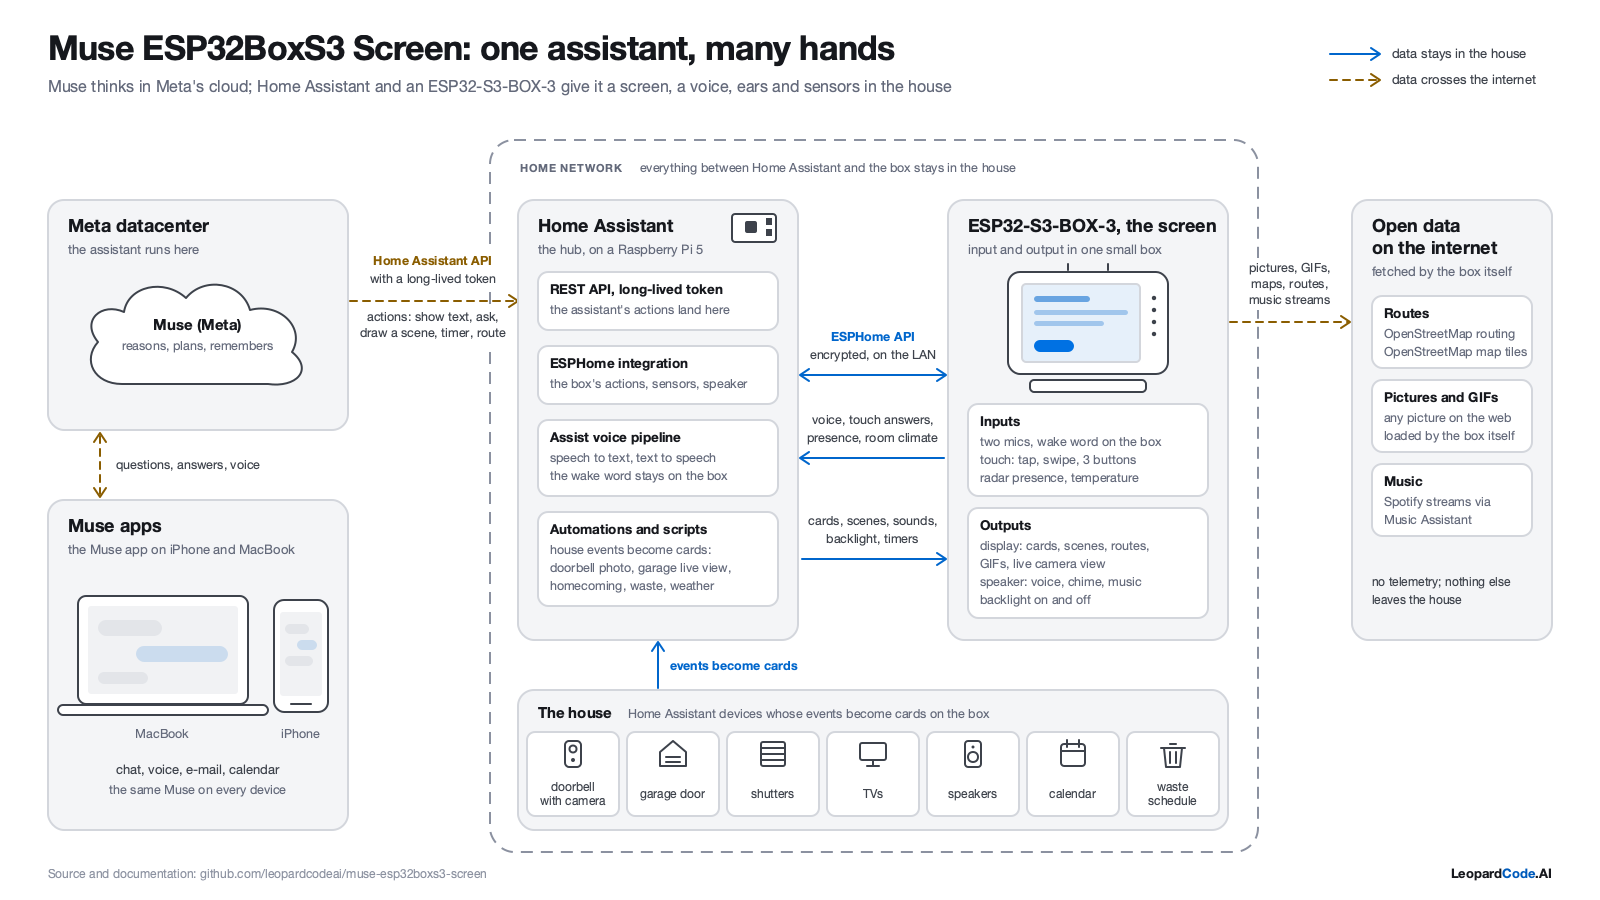
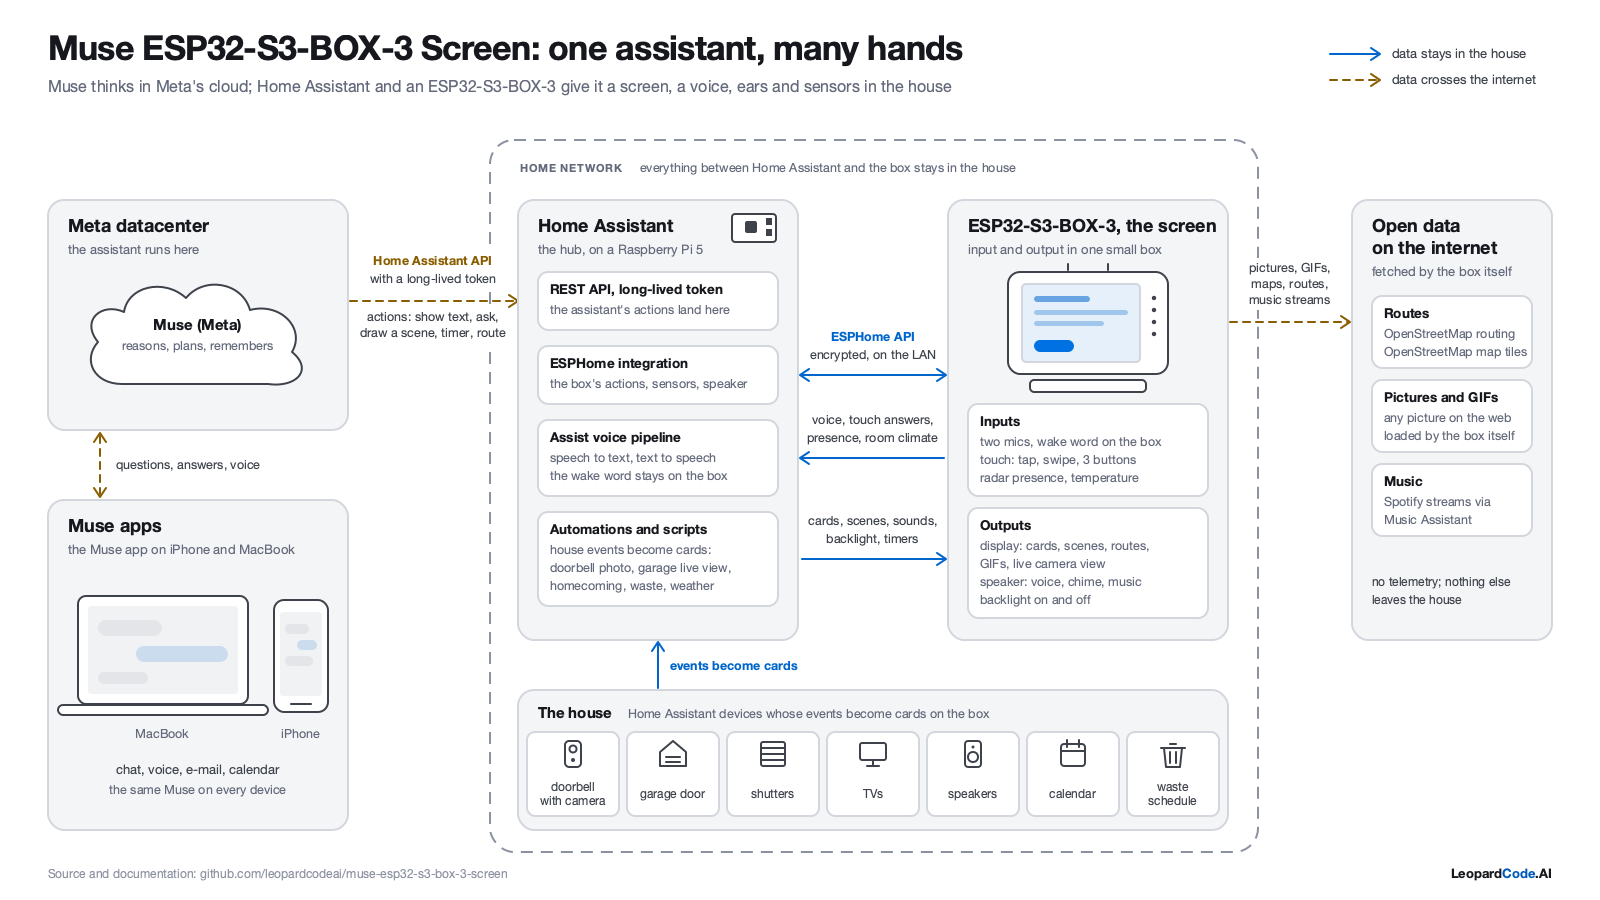
Muse ESP32-S3-BOX-3 Screen: the board's own name instead of ESP32BoxS3, firmware 4.3.0
The project, the firmware file, the default device name (muse-esp32-s3-box-3-screen),
the ESPHome project id, the user agent, the web app's default device and every text now
use the name Espressif gives the board. A box already running under muse-esp32boxs3-screen
keeps its actions by setting name in its overlay (CHANGELOG 4.3.0). The system diagram
PNG is rendered again from the SVG.

Changed region(s): [[0.1562, 0.0311, 0.625, 0.0933], [0.25, 0.9644, 0.3125, 0.9956]]

diff --git a/web/render.js b/web/render.js
@@ -20,11 +20,11 @@ export const SHADOW = [226, 226, 231];
 export const WHITE = [255, 255, 255];
 export const ORANGE = [255, 149, 0];
 
-// The Inter weights behind the six scene text sizes (xs s m l xl xxl), as muse-esp32boxs3-screen.yaml lists them.
+// The Inter weights behind the six scene text sizes (xs s m l xl xxl), as muse-esp32-s3-box-3-screen.yaml lists them.
 export const TEXT_WEIGHT = [500, 500, 700, 600, 700, 700];
 export const TEXT_PX = [13, 16, 20, 24, 36, 54];
 export const ICON_PX = [24, 46];
-// The fonts of the cards: [weight, px], the ids of muse-esp32boxs3-screen.yaml.
+// The fonts of the cards: [weight, px], the ids of muse-esp32-s3-box-3-screen.yaml.
 export const CARD_FONTS = {
   brand: [800, 19], clock: [600, 17], status: [600, 16], title: [700, 20], body: [500, 16], small: [500, 13],
   label: [600, 17], value: [700, 54], unit: [600, 24], head: [700, 36],

diff --git a/web/ha.js b/web/ha.js
@@ -24,10 +24,10 @@
 //    ws:// from HTTPS in any case (web/README.md, "Connecting from the hosted page").
 //
 // DEFAULT_DEVICE is the one place of the box's device name in this app: the part before
-// "_muse_" in its actions (esphome.muse_esp32boxs3_screen_muse_show_text), the ESPHome
-// name muse-esp32boxs3-screen with "_" for "-". The settings, the dialog's placeholder
+// "_muse_" in its actions (esphome.muse_esp32_s3_box_3_screen_muse_show_text), the ESPHome
+// name muse-esp32-s3-box-3-screen with "_" for "-". The settings, the dialog's placeholder
 // and the tests take it from here.
-export const DEFAULT_DEVICE = "muse_esp32boxs3_screen";
+export const DEFAULT_DEVICE = "muse_esp32_s3_box_3_screen";
 export const EVENT_WEB = "muse_web";
 export const EVENT_ANSWER = "muse_web_answer";
 

diff --git a/web/test/settings.test.js b/web/test/settings.test.js
@@ -77,7 +77,7 @@ test("README and the settings dialog name the box as DEFAULT_DEVICE does", () =>
   const readme = readFileSync(new URL("../README.md", import.meta.url), "utf8");
   const html = readFileSync(new URL("../index.html", import.meta.url), "utf8");
   for (const [name, text] of [["README.md", readme], ["index.html", html]]) {
-    assert.ok(!/muse_box|muse-box\b|esp32boxs3-toy|ESP32BoxS3 Toy/i.test(text), `${name} still names the old box`);
+    assert.ok(!/muse_box|muse-box\b|esp32boxs3|ESP32BoxS3/i.test(text), `${name} still names the old box`);
   }
   assert.ok(readme.includes(`esphome.${DEFAULT_DEVICE}_muse_show_text`), "README shows the action prefix");
   assert.ok(readme.includes(`\`${DEFAULT_DEVICE}\``), "README names the default device");

diff --git a/web/index.html b/web/index.html
@@ -4,7 +4,7 @@
   <meta charset="utf-8">
   <meta name="viewport" content="width=device-width, initial-scale=1, viewport-fit=cover">
   <title>Muse Web Screen</title>
-  <meta name="description" content="Muse Web Screen: the twin of the Muse ESP32BoxS3 Screen in the browser, an always-on display of the assistant's cards and scenes.">
+  <meta name="description" content="Muse Web Screen: the twin of the Muse ESP32-S3-BOX-3 Screen in the browser, an always-on display of the assistant's cards and scenes.">
   <meta name="theme-color" content="#f3f3f3">
   <meta name="apple-mobile-web-app-capable" content="yes">
   <meta name="apple-mobile-web-app-status-bar-style" content="default">

diff --git a/web/text.js b/web/text.js
@@ -44,7 +44,7 @@ export function emojiWeather(cp) {
   }
 }
 
-// What the two largest fonts on the box hold (muse-esp32boxs3-screen.yaml, m_head and m_value). The
+// What the two largest fonts on the box hold (muse-esp32-s3-box-3-screen.yaml, m_head and m_value). The
 // four smaller ones hold Google Fonts' Latin Core set, approximated by the Latin blocks.
 export const GLYPHS_XL = " !\"#$%&'()*+,-./0123456789:;<=>?@ABCDEFGHIJKLMNOPQRSTUVWXYZ[\\]^_`abcdefghijklmnopqrstuvwxyz"
   + "{|}~äöüÄÖÜß€°„“”‘’–—…•·àáâéèêëíìîïóòôúùûçñÀÁÉÈÓÚÇÑ";

diff --git a/web/test/ha.test.js b/web/test/ha.test.js
@@ -14,8 +14,8 @@ test("websocketUrl(): http and https, trailing slashes", () => {
 });
 
 test("the device name is the box's ESPHome name with underscores", () => {
-  assert.equal(DEFAULT_DEVICE, "muse_esp32boxs3_screen");
-  assert.equal(DEFAULT_DEVICE, "muse-esp32boxs3-screen".replaceAll("-", "_"));
+  assert.equal(DEFAULT_DEVICE, "muse_esp32_s3_box_3_screen");
+  assert.equal(DEFAULT_DEVICE, "muse-esp32-s3-box-3-screen".replaceAll("-", "_"));
 });
 
 test("mapCallService(): only esphome calls of <device>_muse_*", () => {

diff --git a/web/cards.js b/web/cards.js
@@ -1,5 +1,5 @@
 // cards.js: the cards the box shows, drawn as its display lambda draws them
-// (firmware/muse-esp32boxs3-screen.yaml, display:): the top bar, the status with the figure and the
+// (firmware/muse-esp32-s3-box-3-screen.yaml, display:): the top bar, the status with the figure and the
 // pill, text, value, celebration, weather, photo, event, route, agenda, question, timer,
 // info and list. Same positions, fonts and colours; the texts stay German like the box's.
 //

diff --git a/web/queue.js b/web/queue.js
@@ -1,5 +1,5 @@
 // queue.js: cards wait in line, as on the box (a port of the queue half of
-// firmware/muse.h and of the scripts muse_next and muse_prev in muse-esp32boxs3-screen.yaml).
+// firmware/muse.h and of the scripts muse_next and muse_prev in muse-esp32-s3-box-3-screen.yaml).
 //
 // A new card waits while another is on screen, up to QUEUE_MAX; a tap shows the next.
 // Some go first: a question, the doorbell, a voice conversation. A card with the title

diff --git a/tools/render_scene.py b/tools/render_scene.py
@@ -13,7 +13,7 @@ and lets the scene files be documented with pictures.
 
 Pitfalls:
   * Fonts: the box draws Inter (weights 500/600/700) and Material Design Icons 7.4.47. The
-    TTFs are not in the repo: `esphome compile firmware/muse-esp32boxs3-screen.yaml` downloads them into
+    TTFs are not in the repo: `esphome compile firmware/muse-esp32-s3-box-3-screen.yaml` downloads them into
     firmware/.esphome/font/, where this tool looks first (override with MUSE_FONT_DIR and
     MUSE_ICON_FONT, or --font-dir and --icon-font).
   * The figure (``muse``, ``avatar``) is drawn from the frames the box embeds by default,
@@ -71,7 +71,7 @@ HERE = Path(__file__).resolve().parent
 FIGURE_DIR = HERE.parent / "firmware" / "figure"  # the project's figure; never the muse_*.png beside it
 STEP_MS = 160  # a step of the figure in a scene (muse.h: t / 160)
 ESPHOME_FONTS = HERE.parent / "firmware" / ".esphome" / "font"  # where esphome compile caches the fonts
-FONT_HINT = ("run `esphome compile firmware/muse-esp32boxs3-screen.yaml` once (it downloads Inter and the icon font into "
+FONT_HINT = ("run `esphome compile firmware/muse-esp32-s3-box-3-screen.yaml` once (it downloads Inter and the icon font into "
              "firmware/.esphome/font/), or point MUSE_FONT_DIR and MUSE_ICON_FONT (or --font-dir and "
              "--icon-font) at them")
 

diff --git a/tools/muse_screen.py b/tools/muse_screen.py
@@ -31,7 +31,7 @@ import sys
 import urllib.error
 import urllib.request
 
-DEFAULT_DEVICE = "muse_esp32boxs3_screen"
+DEFAULT_DEVICE = "muse_esp32_s3_box_3_screen"
 
 
 def call(device, action, data, response=True):
@@ -55,7 +55,7 @@ def call(device, action, data, response=True):
 def main():
     ap = argparse.ArgumentParser(description=__doc__.split("\n")[0])
     ap.add_argument("--device", default=os.environ.get("MUSE_BOX_DEVICE", DEFAULT_DEVICE),
-                    help="the ESPHome device name with underscores (default muse_esp32boxs3_screen)")
+                    help="the ESPHome device name with underscores (default muse_esp32_s3_box_3_screen)")
     sub = ap.add_subparsers(dest="cmd", required=True)
     s = sub.add_parser("status", help="status: ready, listening, thinking, speaking, error, off; optional label")
     s.add_argument("status"); s.add_argument("label", nargs="?", default="")

diff --git a/tools/make_figure.py b/tools/make_figure.py
@@ -24,7 +24,7 @@ Pitfalls:
   * Flash: every 160 x 160 frame is 51,200 bytes of RGB565, the 82 frames 4.2 MB. Keep the
     sizes and counts (FRAMES, CONFETTI_FRAMES); the firmware plays whatever count a file
     has, but the app partition is not unlimited.
-  * The page colour (243, 243, 243) must match MUSE_BG in muse-esp32boxs3-screen.yaml and
+  * The page colour (243, 243, 243) must match MUSE_BG in muse-esp32-s3-box-3-screen.yaml and
     PAGE in render_scene.py and the web app; every frame fades into it at the edges.
   * Ping-pong: the box plays 0..15 and back, so every motion here is a function that is
     at rest (an extremum) at frame 0 and frame 15, otherwise the turn shows as a jolt.

diff --git a/firmware/muse_media.h b/firmware/muse_media.h
@@ -197,7 +197,7 @@ inline bool http_get_once(const std::string &url, Download &d, size_t max, uint3
     cfg.crt_bundle_attach = esp_crt_bundle_attach;
     // The map and routing services want a way to reach whoever sends the request; without
     // a URL here a map service answered 403 (07.10.2026).
-    cfg.user_agent = "Muse-ESP32BoxS3-Screen/4.2 (ESPHome; +https://github.com/leopardcodeai/muse-esp32boxs3-screen)";
+    cfg.user_agent = "Muse-ESP32-S3-BOX-3-Screen/4.3 (ESPHome; +https://github.com/leopardcodeai/muse-esp32-s3-box-3-screen)";
     cfg.max_redirection_count = 5;
     cfg.event_handler = on_http_event;
     cfg.user_data = &d;
